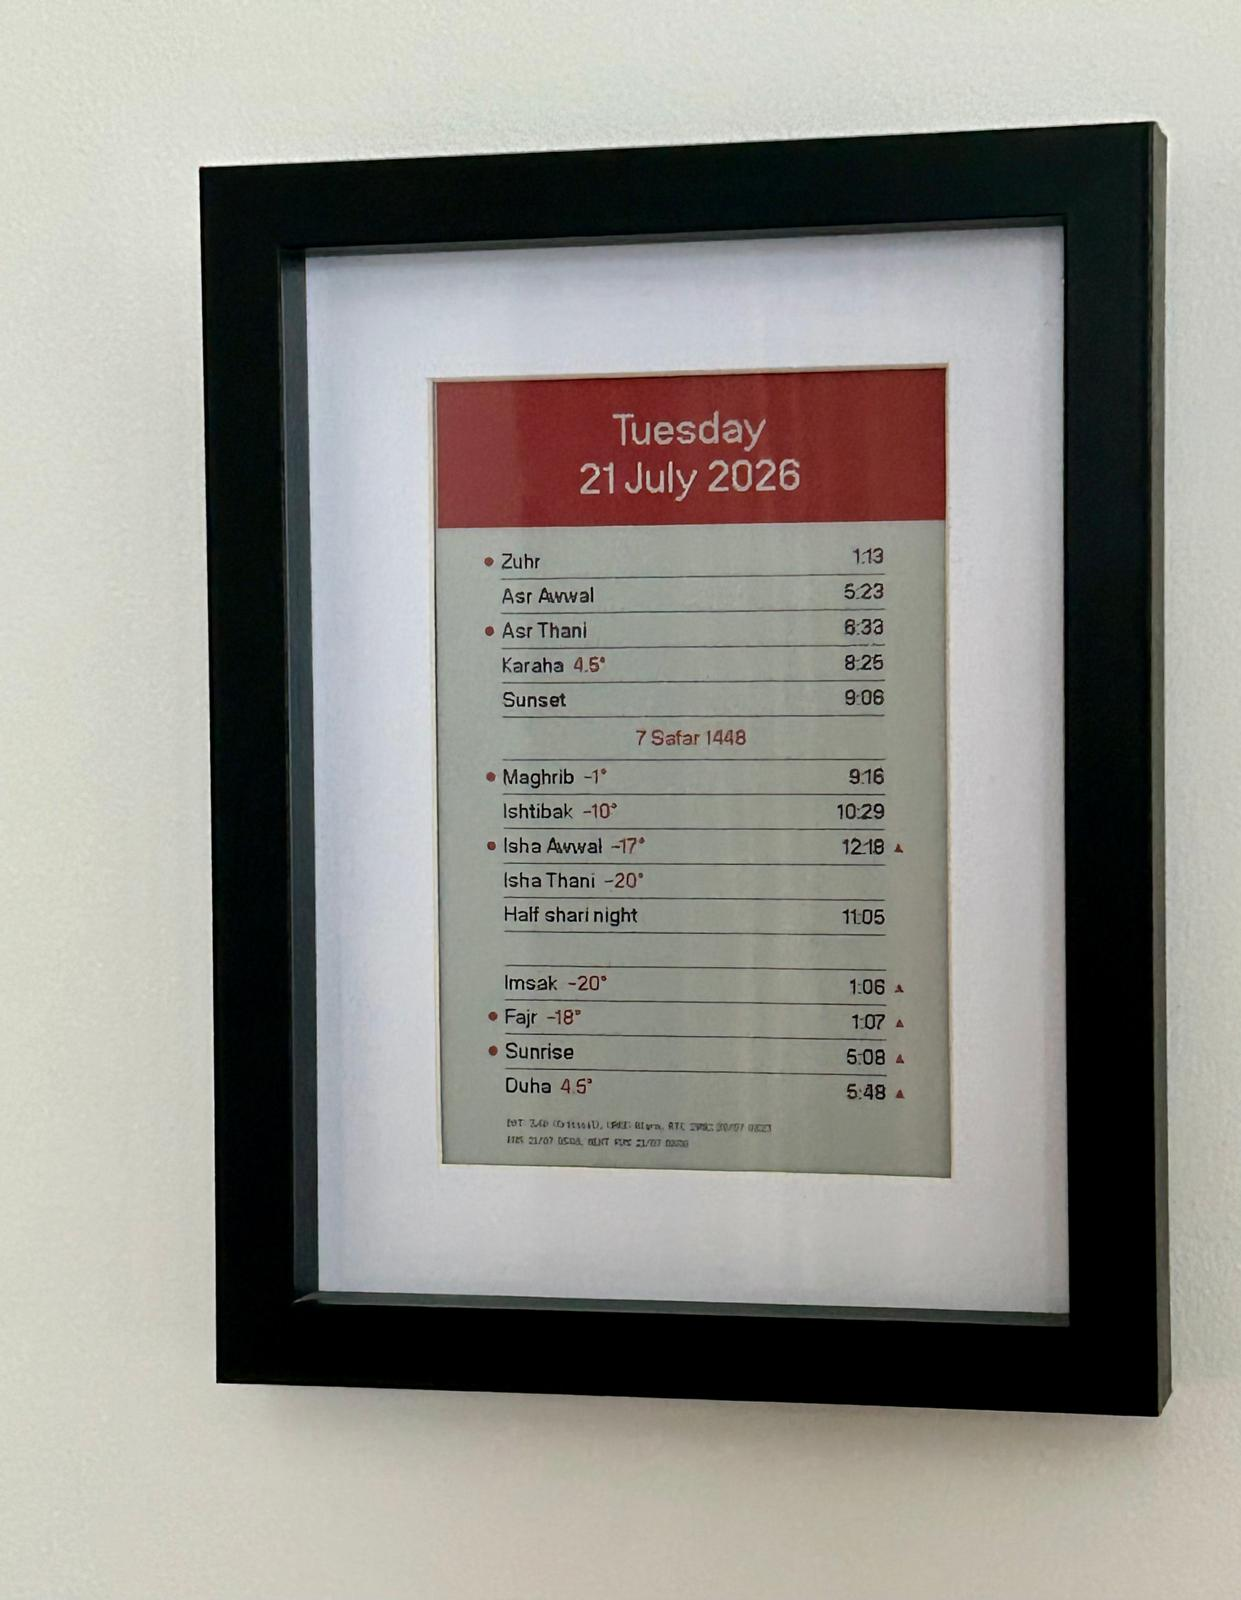
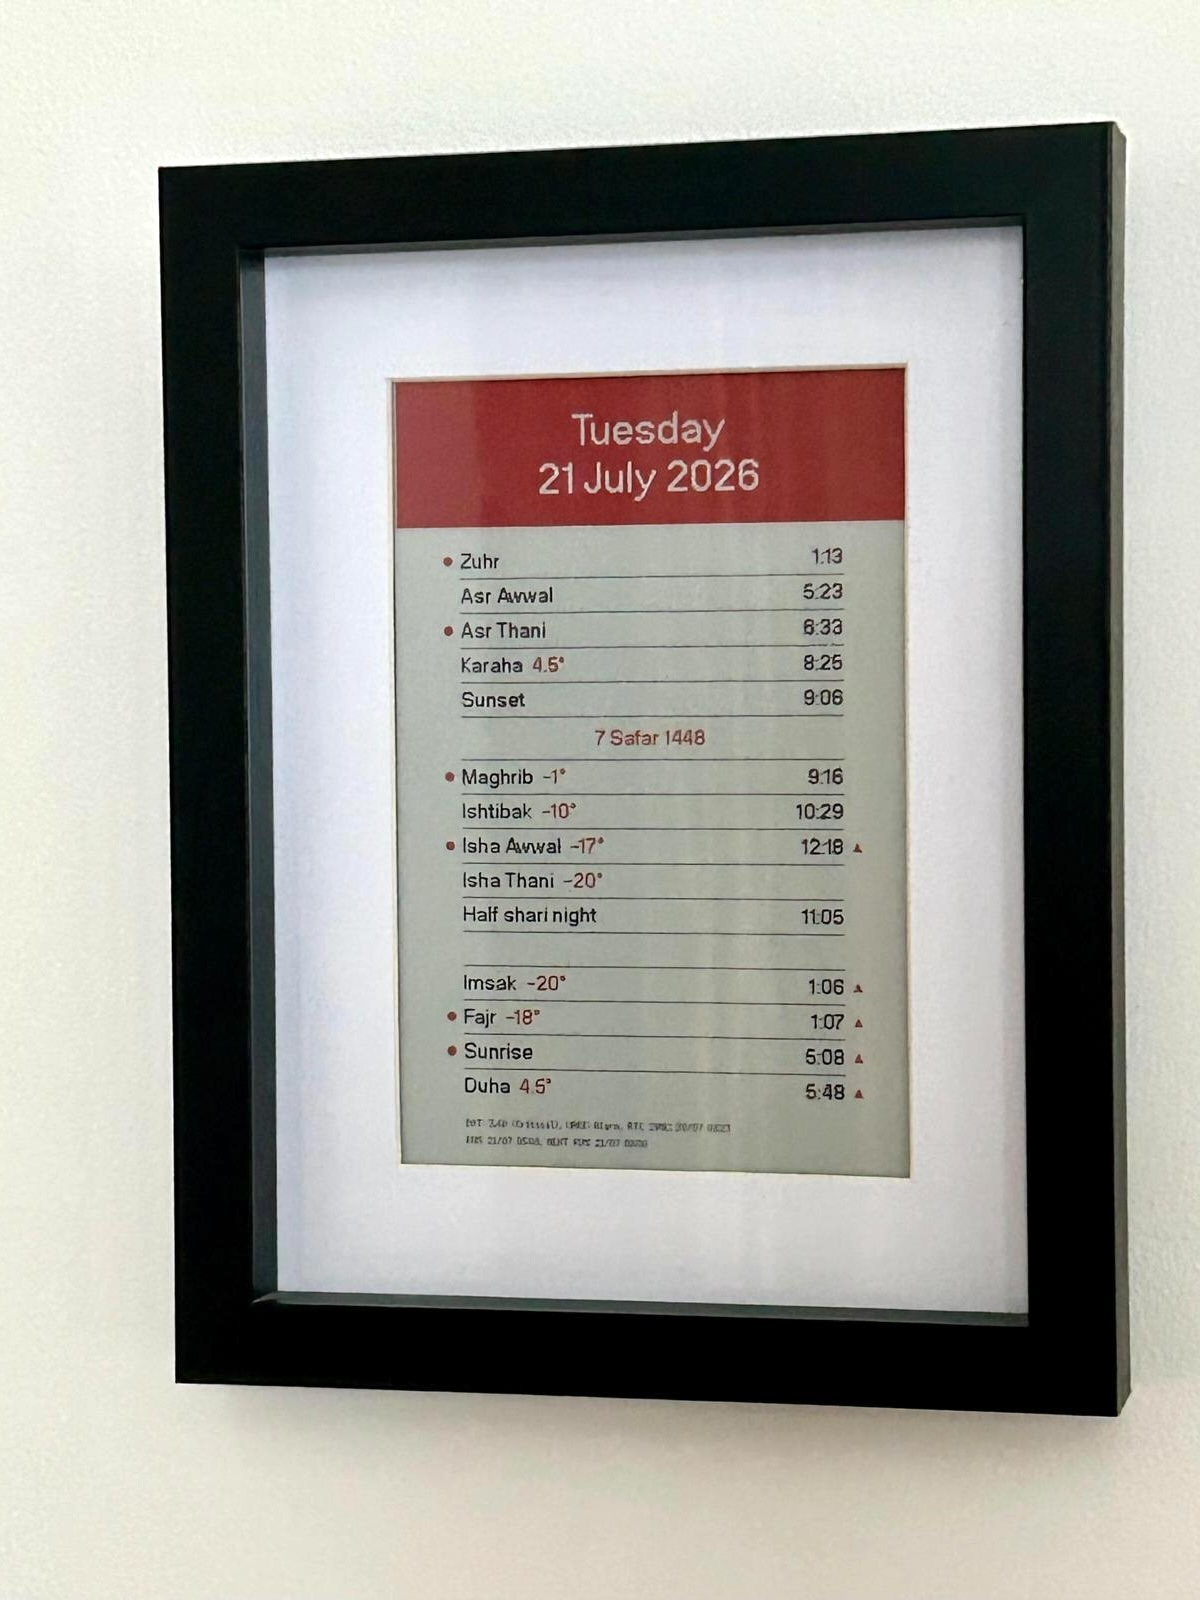
Update documentation and images

diff --git a/README.md b/README.md
@@ -4,7 +4,7 @@
 Ruzname is an e-paper salah calendar powered by a **Pimoroni Inky Frame 7.3"**. Daily prayer time images are generated as PNGs using [Muwaqqit](https://www.muwaqqit.com) and loaded onto the Inky Frame. The Inky Frame wakes up daily via its real-time clock (RTC), displays the current day's PNG, schedules a wakeup alarm for tomorrow, and cuts its power to conserve battery.
 
 <p align="center">
-  <img src="docs/pic1.jpeg" alt="Ruzname Calendar" width="400">
+  <img src="docs/pic1.jpeg" alt="Ruzname Calendar" width="600">
 </p>
 
 ---
@@ -88,7 +88,7 @@ The system consists of two main components:
 *   **VSYS Hold (GP2):** The first line of code sets `GP2` high to latch power on, keeping the board running when the wake button is released.
 *   **Status LEDs:**
     *   **Processing LED:** Pulses during activity and turns off right before power cut.
-    *   **Wi-Fi LED:** Flashes once per second while attempting Wi-Fi connection.
+    *   **Wi-Fi LED:** Flashes while attempting Wi-Fi connection.
 
 ### 3. RTC Clock Sync
 *   Loads time from the external **PCF85063A RTC** into the internal Pico W clock.
@@ -96,7 +96,7 @@ The system consists of two main components:
 *   **Manual Bypass:** Automatically syncs Wi-Fi immediately if booted manually (button press or USB power), or if the previous sync failed.
 *   **Radio Shutdown:** Powers down the Wi-Fi chip (`CYW43`) immediately after clock sync to prevent background interrupts from interfering with SD card reading.
 
-### 4. Image Decoding & Diagnostics
+### 4. Image Display
 *   Mounts the MicroSD card at `/sd` and decodes `/sd/muwaqqit/YYYY-MM-DD.png` directly to the display using hardware `pngdec.PNG`.
 *   Overlays a 2-line diagnostic bar along the bottom margin:
     *   **Line 1:** Battery voltage/state (`Full`, `Good`, `Low`, `Critical`, or `USB`), wake trigger (`Alarm`, `Button`, or `Power`), and last NTP sync date.